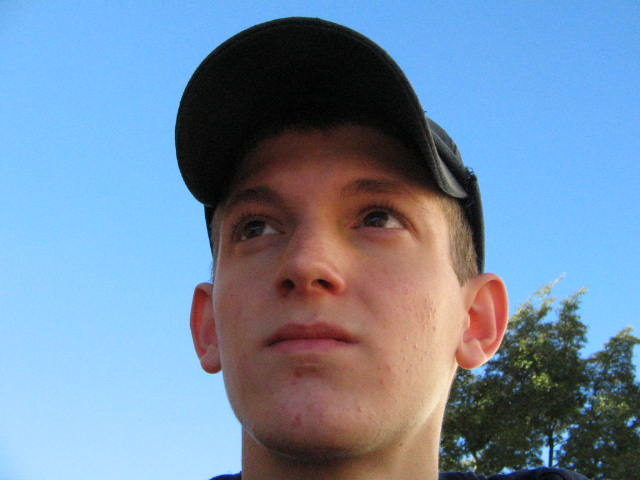
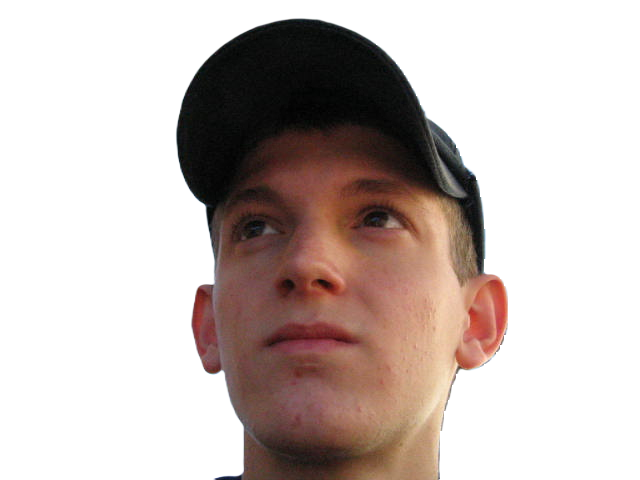
index photo

diff --git a/index.html b/index.html
@@ -56,7 +56,7 @@
                                 <div class="profile bg-gradient-primary-to-secondary">
                                     <!-- TIP: For best results, use a photo with a transparent background like the demo example below-->
                                     <!-- Watch a tutorial on how to do this on YouTube (link)-->
-                                    <!-- <img class="profile-img" src="assets/profile.png" alt="..." /> -->
+                                    <img class="profile-img" src="assets/profile.png" alt="..." />
                                     <div class="dots-1">
                                         <!-- SVG Dots-->
                                         <svg version="1.1" xmlns="http://www.w3.org/2000/svg" xmlns:xlink="http://www.w3.org/1999/xlink" x="0px" y="0px" viewBox="0 0 191.6 1215.4" style="enable-background: new 0 0 191.6 1215.4" xml:space="preserve">
